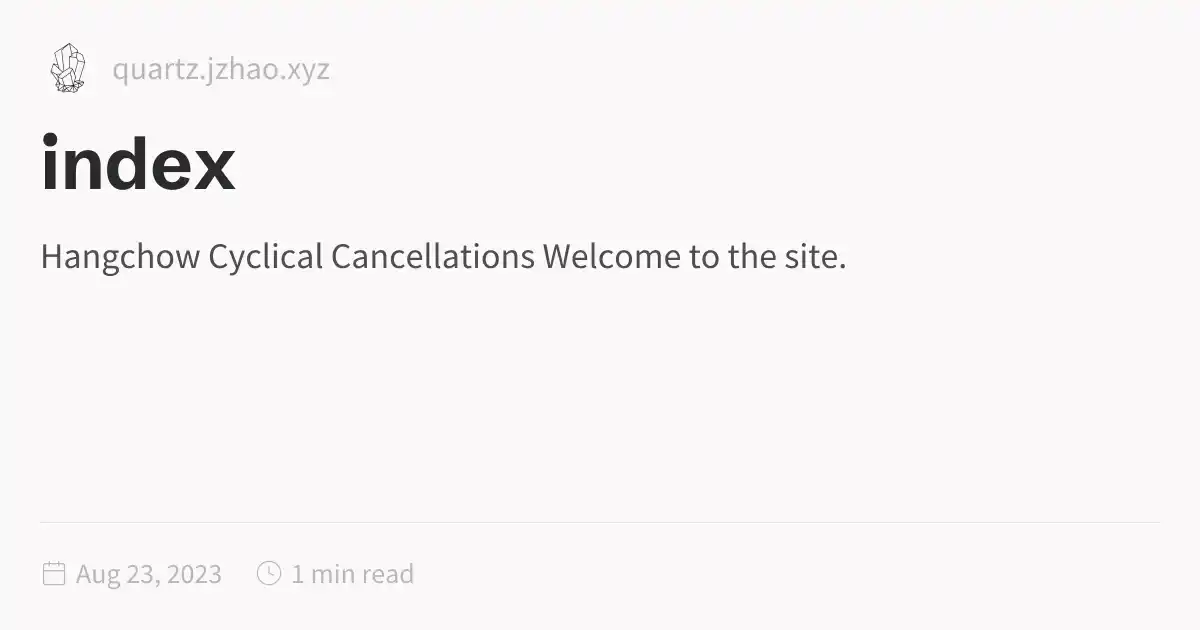
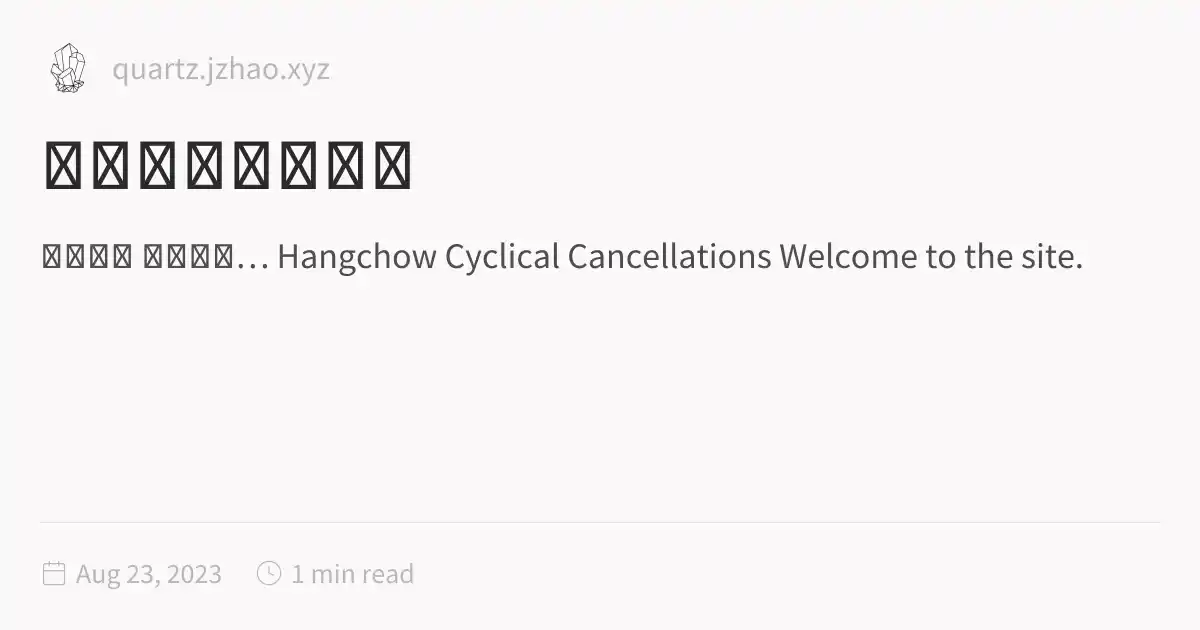
deploy: lihengjun/my-obsidian-vault@e7536885da96585f02a45a3154257fda2681b281

Changed region(s): [[0.0308, 0.3619, 0.8942, 0.4524], [0.0308, 0.2111, 0.3392, 0.3016]]

diff --git a/index.html b/index.html
@@ -1,5 +1,5 @@
 <!DOCTYPE html>
-<html lang="en"><head><title>index</title><meta charset="utf-8"/><link rel="preconnect" href="https://fonts.googleapis.com"/><link rel="preconnect" href="https://fonts.gstatic.com"/><link rel="stylesheet" href="https://fonts.googleapis.com/css2?family=Schibsted Grotesk:wght@400;700&amp;family=Source Sans Pro:ital,wght@0,400;0,600;1,400;1,600&amp;family=IBM Plex Mono:wght@400;600&amp;display=swap"/><link rel="preconnect" href="https://cdnjs.cloudflare.com" crossorigin="anonymous"/><meta name="viewport" content="width=device-width, initial-scale=1.0"/><meta name="og:site_name" content="Quartz 4"/><meta property="og:title" content="index"/><meta property="og:type" content="website"/><meta name="twitter:card" content="summary_large_image"/><meta name="twitter:title" content="index"/><meta name="twitter:description" content="Hangchow Cyclical Cancellations Welcome to the site."/><meta property="og:description" content="Hangchow Cyclical Cancellations Welcome to the site."/><meta property="og:image:alt" content="Hangchow Cyclical Cancellations Welcome to the site."/><meta property="twitter:domain" content="quartz.jzhao.xyz"/><meta property="og:url" content="https://quartz.jzhao.xyz/index"/><meta property="twitter:url" content="https://quartz.jzhao.xyz/index"/><link rel="icon" href="./static/icon.png"/><meta name="description" content="Hangchow Cyclical Cancellations Welcome to the site."/><meta name="generator" content="Quartz"/><link href="./index.css" rel="stylesheet" type="text/css" spa-preserve/><style>.expand-button {
+<html lang="en"><head><title>杭州城幹支戳蓃集</title><meta charset="utf-8"/><link rel="preconnect" href="https://fonts.googleapis.com"/><link rel="preconnect" href="https://fonts.gstatic.com"/><link rel="stylesheet" href="https://fonts.googleapis.com/css2?family=Schibsted Grotesk:wght@400;700&amp;family=Source Sans Pro:ital,wght@0,400;0,600;1,400;1,600&amp;family=IBM Plex Mono:wght@400;600&amp;display=swap"/><link rel="preconnect" href="https://cdnjs.cloudflare.com" crossorigin="anonymous"/><meta name="viewport" content="width=device-width, initial-scale=1.0"/><meta name="og:site_name" content="Quartz 4"/><meta property="og:title" content="杭州城幹支戳蓃集"/><meta property="og:type" content="website"/><meta name="twitter:card" content="summary_large_image"/><meta name="twitter:title" content="杭州城幹支戳蓃集"/><meta name="twitter:description" content="内容标题 你的内容… Hangchow Cyclical Cancellations Welcome to the site."/><meta property="og:description" content="内容标题 你的内容… Hangchow Cyclical Cancellations Welcome to the site."/><meta property="og:image:alt" content="内容标题 你的内容… Hangchow Cyclical Cancellations Welcome to the site."/><meta property="twitter:domain" content="quartz.jzhao.xyz"/><meta property="og:url" content="https://quartz.jzhao.xyz/index"/><meta property="twitter:url" content="https://quartz.jzhao.xyz/index"/><link rel="icon" href="./static/icon.png"/><meta name="description" content="内容标题 你的内容… Hangchow Cyclical Cancellations Welcome to the site."/><meta name="generator" content="Quartz"/><link href="./index.css" rel="stylesheet" type="text/css" spa-preserve/><style>.expand-button {
   position: absolute;
   display: flex;
   float: right;
@@ -116,7 +116,9 @@ pre:hover > .expand-button {
   padding: 0 12px;
   font-size: 14px;
 }
[2 lines of base64/hex data omitted]
+<p>你的内容…</p>
+<h1 id="hangchow-cyclical-cancellations">Hangchow Cyclical Cancellations<a role="anchor" aria-hidden="true" tabindex="-1" data-no-popover="true" href="#hangchow-cyclical-cancellations" class="internal"><svg width="18" height="18" viewBox="0 0 24 24" fill="none" stroke="currentColor" stroke-width="2" stroke-linecap="round" stroke-linejoin="round"><path d="M10 13a5 5 0 0 0 7.54.54l3-3a5 5 0 0 0-7.07-7.07l-1.72 1.71"></path><path d="M14 11a5 5 0 0 0-7.54-.54l-3 3a5 5 0 0 0 7.07 7.07l1.71-1.71"></path></svg></a></h1>
 <p>Welcome to the site.</p>
 <p><a href="./other" class="internal" data-slug="other">other</a></p>
 <p><a href="./news/link" class="internal" data-slug="news/link">link</a></p>
@@ -157,8 +159,7 @@ pre:hover > .expand-button {
 <p><a href="./other" class="internal" data-slug="other">other</a></p>
 <p></p><blockquote class="transclude" data-url="other" data-block data-embed-alias="undefined"><h1>other</h1><p>123</p><a href="./other" class="internal transclude-src">Link to original</a></blockquote><p></p>
 <h1 id="杭州城幹支戳蓃集">杭州城幹支戳蓃集<a role="anchor" aria-hidden="true" tabindex="-1" data-no-popover="true" href="#杭州城幹支戳蓃集" class="internal"><svg width="18" height="18" viewBox="0 0 24 24" fill="none" stroke="currentColor" stroke-width="2" stroke-linecap="round" stroke-linejoin="round"><path d="M10 13a5 5 0 0 0 7.54.54l3-3a5 5 0 0 0-7.07-7.07l-1.72 1.71"></path><path d="M14 11a5 5 0 0 0-7.54-.54l-3 3a5 5 0 0 0 7.07 7.07l1.71-1.71"></path></svg></a></h1>
-<p>Text - again</p>
-<p><img src="app://f73fa24c1c9e7ece6f4667f9c7838fdae5f3/Users/lihengjun/Library/Mobile%20Documents/iCloud~md~obsidian/Documents/Obsidian_Vault/50_Philately/Hangchow%20Cyclical%20Cancellations/news/attachments/biozenith_logo.png?1755977322369" alt="biozenith_logo.png"/></p></article><hr/><div class="page-footer"></div></div><div class="right sidebar"><div class="graph"><h3>Graph View</h3><div class="graph-outer"><div class="graph-container" data-cfg="{&quot;drag&quot;:true,&quot;zoom&quot;:true,&quot;depth&quot;:1,&quot;scale&quot;:1.1,&quot;repelForce&quot;:0.5,&quot;centerForce&quot;:0.3,&quot;linkDistance&quot;:30,&quot;fontSize&quot;:0.6,&quot;opacityScale&quot;:1,&quot;showTags&quot;:true,&quot;removeTags&quot;:[],&quot;focusOnHover&quot;:false,&quot;enableRadial&quot;:false}"></div><button class="global-graph-icon" aria-label="Global Graph"><svg version="1.1" xmlns="http://www.w3.org/2000/svg" xmlns:xlink="http://www.w3.org/1999/xlink" x="0px" y="0px" viewBox="0 0 55 55" fill="currentColor" xml:space="preserve"><path d="M49,0c-3.309,0-6,2.691-6,6c0,1.035,0.263,2.009,0.726,2.86l-9.829,9.829C32.542,17.634,30.846,17,29,17
+<p>Text - again</p></article><hr/><div class="page-footer"></div></div><div class="right sidebar"><div class="graph"><h3>Graph View</h3><div class="graph-outer"><div class="graph-container" data-cfg="{&quot;drag&quot;:true,&quot;zoom&quot;:true,&quot;depth&quot;:1,&quot;scale&quot;:1.1,&quot;repelForce&quot;:0.5,&quot;centerForce&quot;:0.3,&quot;linkDistance&quot;:30,&quot;fontSize&quot;:0.6,&quot;opacityScale&quot;:1,&quot;showTags&quot;:true,&quot;removeTags&quot;:[],&quot;focusOnHover&quot;:false,&quot;enableRadial&quot;:false}"></div><button class="global-graph-icon" aria-label="Global Graph"><svg version="1.1" xmlns="http://www.w3.org/2000/svg" xmlns:xlink="http://www.w3.org/1999/xlink" x="0px" y="0px" viewBox="0 0 55 55" fill="currentColor" xml:space="preserve"><path d="M49,0c-3.309,0-6,2.691-6,6c0,1.035,0.263,2.009,0.726,2.86l-9.829,9.829C32.542,17.634,30.846,17,29,17
                 s-3.542,0.634-4.898,1.688l-7.669-7.669C16.785,10.424,17,9.74,17,9c0-2.206-1.794-4-4-4S9,6.794,9,9s1.794,4,4,4
                 c0.74,0,1.424-0.215,2.019-0.567l7.669,7.669C21.634,21.458,21,23.154,21,25s0.634,3.542,1.688,4.897L10.024,42.562
                 C8.958,41.595,7.549,41,6,41c-3.309,0-6,2.691-6,6s2.691,6,6,6s6-2.691,6-6c0-1.035-0.263-2.009-0.726-2.86l12.829-12.829
@@ -168,6 +169,6 @@ pre:hover > .expand-button {
                 C46.042,11.405,47.451,12,49,12c3.309,0,6-2.691,6-6S52.309,0,49,0z M11,9c0-1.103,0.897-2,2-2s2,0.897,2,2s-0.897,2-2,2
                 S11,10.103,11,9z M6,51c-2.206,0-4-1.794-4-4s1.794-4,4-4s4,1.794,4,4S8.206,51,6,51z M33,49c0,2.206-1.794,4-4,4s-4-1.794-4-4
                 s1.794-4,4-4S33,46.794,33,49z M29,31c-3.309,0-6-2.691-6-6s2.691-6,6-6s6,2.691,6,6S32.309,31,29,31z M47,41c0,1.103-0.897,2-2,2
-                s-2-0.897-2-2s0.897-2,2-2S47,39.897,47,41z M49,10c-2.206,0-4-1.794-4-4s1.794-4,4-4s4,1.794,4,4S51.206,10,49,10z"></path></svg></button></div><div class="global-graph-outer"><div class="global-graph-container" data-cfg="{&quot;drag&quot;:true,&quot;zoom&quot;:true,&quot;depth&quot;:-1,&quot;scale&quot;:0.9,&quot;repelForce&quot;:0.5,&quot;centerForce&quot;:0.2,&quot;linkDistance&quot;:30,&quot;fontSize&quot;:0.6,&quot;opacityScale&quot;:1,&quot;showTags&quot;:true,&quot;removeTags&quot;:[],&quot;focusOnHover&quot;:true,&quot;enableRadial&quot;:true}"></div></div></div><div class="toc desktop-only"><button type="button" class="toc-header" aria-controls="toc-0" aria-expanded="true"><h3>Table of Contents</h3><svg xmlns="http://www.w3.org/2000/svg" width="24" height="24" viewBox="0 0 24 24" fill="none" stroke="currentColor" stroke-width="2" stroke-linecap="round" stroke-linejoin="round" class="fold"><polyline points="6 9 12 15 18 9"></polyline></svg></button><ul id="list-1" class="toc-content overflow"><li class="depth-0"><a href="#hangchow-cyclical-cancellations" data-for="hangchow-cyclical-cancellations">Hangchow Cyclical Cancellations</a></li><li class="depth-0"><a href="#杭州城幹支戳蓃集" data-for="杭州城幹支戳蓃集">杭州城幹支戳蓃集</a></li><li class="overflow-end"></li></ul></div></div><footer class><p>Created with <a href="https://quartz.jzhao.xyz/">Quartz v4.5.1</a> © 2025</p><ul><li><a href="https://github.com/jackyzha0/quartz">GitHub</a></li><li><a href="https://discord.gg/cRFFHYye7t">Discord Community</a></li></ul></footer></div></div></body><script type="application/javascript">function n(){let t=this.parentElement;t.classList.toggle("is-collapsed");let e=t.getElementsByClassName("callout-content")[0];if(!e)return;let l=t.classList.contains("is-collapsed");e.style.gridTemplateRows=l?"0fr":"1fr"}function c(){let t=document.getElementsByClassName("callout is-collapsible");for(let e of t){let l=e.getElementsByClassName("callout-title")[0],s=e.getElementsByClassName("callout-content")[0];if(!l||!s)continue;l.addEventListener("click",n),window.addCleanup(()=>l.removeEventListener("click",n));let o=e.classList.contains("is-collapsed");s.style.gridTemplateRows=o?"0fr":"1fr"}}document.addEventListener("nav",c);
+                s-2-0.897-2-2s0.897-2,2-2S47,39.897,47,41z M49,10c-2.206,0-4-1.794-4-4s1.794-4,4-4s4,1.794,4,4S51.206,10,49,10z"></path></svg></button></div><div class="global-graph-outer"><div class="global-graph-container" data-cfg="{&quot;drag&quot;:true,&quot;zoom&quot;:true,&quot;depth&quot;:-1,&quot;scale&quot;:0.9,&quot;repelForce&quot;:0.5,&quot;centerForce&quot;:0.2,&quot;linkDistance&quot;:30,&quot;fontSize&quot;:0.6,&quot;opacityScale&quot;:1,&quot;showTags&quot;:true,&quot;removeTags&quot;:[],&quot;focusOnHover&quot;:true,&quot;enableRadial&quot;:true}"></div></div></div><div class="toc desktop-only"><button type="button" class="toc-header" aria-controls="toc-0" aria-expanded="true"><h3>Table of Contents</h3><svg xmlns="http://www.w3.org/2000/svg" width="24" height="24" viewBox="0 0 24 24" fill="none" stroke="currentColor" stroke-width="2" stroke-linecap="round" stroke-linejoin="round" class="fold"><polyline points="6 9 12 15 18 9"></polyline></svg></button><ul id="list-1" class="toc-content overflow"><li class="depth-0"><a href="#内容标题" data-for="内容标题">内容标题</a></li><li class="depth-0"><a href="#hangchow-cyclical-cancellations" data-for="hangchow-cyclical-cancellations">Hangchow Cyclical Cancellations</a></li><li class="depth-0"><a href="#杭州城幹支戳蓃集" data-for="杭州城幹支戳蓃集">杭州城幹支戳蓃集</a></li><li class="overflow-end"></li></ul></div></div><footer class><p>Created with <a href="https://quartz.jzhao.xyz/">Quartz v4.5.1</a> © 2025</p><ul><li><a href="https://github.com/jackyzha0/quartz">GitHub</a></li><li><a href="https://discord.gg/cRFFHYye7t">Discord Community</a></li></ul></footer></div></div></body><script type="application/javascript">function n(){let t=this.parentElement;t.classList.toggle("is-collapsed");let e=t.getElementsByClassName("callout-content")[0];if(!e)return;let l=t.classList.contains("is-collapsed");e.style.gridTemplateRows=l?"0fr":"1fr"}function c(){let t=document.getElementsByClassName("callout is-collapsible");for(let e of t){let l=e.getElementsByClassName("callout-title")[0],s=e.getElementsByClassName("callout-content")[0];if(!l||!s)continue;l.addEventListener("click",n),window.addCleanup(()=>l.removeEventListener("click",n));let o=e.classList.contains("is-collapsed");s.style.gridTemplateRows=o?"0fr":"1fr"}}document.addEventListener("nav",c);
 </script><script type="module">function f(i,e){if(!i)return;function r(o){o.target===this&&(o.preventDefault(),o.stopPropagation(),e())}function t(o){o.key.startsWith("Esc")&&(o.preventDefault(),e())}i?.addEventListener("click",r),window.addCleanup(()=>i?.removeEventListener("click",r)),document.addEventListener("keydown",t),window.addCleanup(()=>document.removeEventListener("keydown",t))}function y(i){for(;i.firstChild;)i.removeChild(i.firstChild)}var h=class{constructor(e,r){this.container=e;this.content=r;this.setupEventListeners(),this.setupNavigationControls(),this.resetTransform()}isDragging=!1;startPan={x:0,y:0};currentPan={x:0,y:0};scale=1;MIN_SCALE=.5;MAX_SCALE=3;cleanups=[];setupEventListeners(){let e=this.onMouseDown.bind(this),r=this.onMouseMove.bind(this),t=this.onMouseUp.bind(this),o=this.resetTransform.bind(this);this.container.addEventListener("mousedown",e),document.addEventListener("mousemove",r),document.addEventListener("mouseup",t),window.addEventListener("resize",o),this.cleanups.push(()=>this.container.removeEventListener("mousedown",e),()=>document.removeEventListener("mousemove",r),()=>document.removeEventListener("mouseup",t),()=>window.removeEventListener("resize",o))}cleanup(){for(let e of this.cleanups)e()}setupNavigationControls(){let e=document.createElement("div");e.className="mermaid-controls";let r=this.createButton("+",()=>this.zoom(.1)),t=this.createButton("-",()=>this.zoom(-.1)),o=this.createButton("Reset",()=>this.resetTransform());e.appendChild(t),e.appendChild(o),e.appendChild(r),this.container.appendChild(e)}createButton(e,r){let t=document.createElement("button");return t.textContent=e,t.className="mermaid-control-button",t.addEventListener("click",r),window.addCleanup(()=>t.removeEventListener("click",r)),t}onMouseDown(e){e.button===0&&(this.isDragging=!0,this.startPan={x:e.clientX-this.currentPan.x,y:e.clientY-this.currentPan.y},this.container.style.cursor="grabbing")}onMouseMove(e){this.isDragging&&(e.preventDefault(),this.currentPan={x:e.clientX-this.startPan.x,y:e.clientY-this.startPan.y},this.updateTransform())}onMouseUp(){this.isDragging=!1,this.container.style.cursor="grab"}zoom(e){let r=Math.min(Math.max(this.scale+e,this.MIN_SCALE),this.MAX_SCALE),t=this.content.getBoundingClientRect(),o=t.width/2,n=t.height/2,c=r-this.scale;this.currentPan.x-=o*c,this.currentPan.y-=n*c,this.scale=r,this.updateTransform()}updateTransform(){this.content.style.transform=`translate(${this.currentPan.x}px, ${this.currentPan.y}px) scale(${this.scale})`}resetTransform(){this.scale=1;let e=this.content.querySelector("svg");this.currentPan={x:e.getBoundingClientRect().width/2,y:e.getBoundingClientRect().height/2},this.updateTransform()}},C=["--secondary","--tertiary","--gray","--light","--lightgray","--highlight","--dark","--darkgray","--codeFont"],E;document.addEventListener("nav",async()=>{let e=document.querySelector(".center").querySelectorAll("code.mermaid");if(e.length===0)return;E||=await import("https://cdnjs.cloudflare.com/ajax/libs/mermaid/11.4.0/mermaid.esm.min.mjs");let r=E.default,t=new WeakMap;for(let n of e)t.set(n,n.innerText);async function o(){for(let s of e){s.removeAttribute("data-processed");let a=t.get(s);a&&(s.innerHTML=a)}let n=C.reduce((s,a)=>(s[a]=window.getComputedStyle(document.documentElement).getPropertyValue(a),s),{}),c=document.documentElement.getAttribute("saved-theme")==="dark";r.initialize({startOnLoad:!1,securityLevel:"loose",theme:c?"dark":"base",themeVariables:{fontFamily:n["--codeFont"],primaryColor:n["--light"],primaryTextColor:n["--darkgray"],primaryBorderColor:n["--tertiary"],lineColor:n["--darkgray"],secondaryColor:n["--secondary"],tertiaryColor:n["--tertiary"],clusterBkg:n["--light"],edgeLabelBackground:n["--highlight"]}}),await r.run({nodes:e})}await o(),document.addEventListener("themechange",o),window.addCleanup(()=>document.removeEventListener("themechange",o));for(let n=0;n<e.length;n++){let v=function(){let g=l.querySelector("#mermaid-space"),m=l.querySelector(".mermaid-content");if(!m)return;y(m);let w=c.querySelector("svg").cloneNode(!0);m.appendChild(w),l.classList.add("active"),g.style.cursor="grab",u=new h(g,m)},M=function(){l.classList.remove("active"),u?.cleanup(),u=null},c=e[n],s=c.parentElement,a=s.querySelector(".clipboard-button"),d=s.querySelector(".expand-button"),p=window.getComputedStyle(a),L=a.offsetWidth+parseFloat(p.marginLeft||"0")+parseFloat(p.marginRight||"0");d.style.right=`calc(${L}px + 0.3rem)`,s.prepend(d);let l=s.querySelector("#mermaid-container");if(!l)return;let u=null;d.addEventListener("click",v),f(l,M),window.addCleanup(()=>{u?.cleanup(),d.removeEventListener("click",v)})}});
 </script><script src="https://cdn.jsdelivr.net/npm/katex@0.16.11/dist/contrib/copy-tex.min.js" type="application/javascript"></script><script src="./postscript.js" type="module"></script></html>

diff --git a/other.html b/other.html
@@ -116,7 +116,7 @@ pre:hover > .expand-button {
   padding: 0 12px;
   font-size: 14px;
 }
[2 lines of base64/hex data omitted]
                 s-3.542,0.634-4.898,1.688l-7.669-7.669C16.785,10.424,17,9.74,17,9c0-2.206-1.794-4-4-4S9,6.794,9,9s1.794,4,4,4
                 c0.74,0,1.424-0.215,2.019-0.567l7.669,7.669C21.634,21.458,21,23.154,21,25s0.634,3.542,1.688,4.897L10.024,42.562
                 C8.958,41.595,7.549,41,6,41c-3.309,0-6,2.691-6,6s2.691,6,6,6s6-2.691,6-6c0-1.035-0.263-2.009-0.726-2.86l12.829-12.829
@@ -126,6 +126,6 @@ pre:hover > .expand-button {
                 C46.042,11.405,47.451,12,49,12c3.309,0,6-2.691,6-6S52.309,0,49,0z M11,9c0-1.103,0.897-2,2-2s2,0.897,2,2s-0.897,2-2,2
                 S11,10.103,11,9z M6,51c-2.206,0-4-1.794-4-4s1.794-4,4-4s4,1.794,4,4S8.206,51,6,51z M33,49c0,2.206-1.794,4-4,4s-4-1.794-4-4
                 s1.794-4,4-4S33,46.794,33,49z M29,31c-3.309,0-6-2.691-6-6s2.691-6,6-6s6,2.691,6,6S32.309,31,29,31z M47,41c0,1.103-0.897,2-2,2
-                s-2-0.897-2-2s0.897-2,2-2S47,39.897,47,41z M49,10c-2.206,0-4-1.794-4-4s1.794-4,4-4s4,1.794,4,4S51.206,10,49,10z"></path></svg></button></div><div class="global-graph-outer"><div class="global-graph-container" data-cfg="{&quot;drag&quot;:true,&quot;zoom&quot;:true,&quot;depth&quot;:-1,&quot;scale&quot;:0.9,&quot;repelForce&quot;:0.5,&quot;centerForce&quot;:0.2,&quot;linkDistance&quot;:30,&quot;fontSize&quot;:0.6,&quot;opacityScale&quot;:1,&quot;showTags&quot;:true,&quot;removeTags&quot;:[],&quot;focusOnHover&quot;:true,&quot;enableRadial&quot;:true}"></div></div></div><div class="backlinks"><h3>Backlinks</h3><ul id="list-2" class="overflow"><li><a href="./" class="internal">index</a></li><li class="overflow-end"></li></ul></div></div><footer class><p>Created with <a href="https://quartz.jzhao.xyz/">Quartz v4.5.1</a> © 2025</p><ul><li><a href="https://github.com/jackyzha0/quartz">GitHub</a></li><li><a href="https://discord.gg/cRFFHYye7t">Discord Community</a></li></ul></footer></div></div></body><script type="application/javascript">function n(){let t=this.parentElement;t.classList.toggle("is-collapsed");let e=t.getElementsByClassName("callout-content")[0];if(!e)return;let l=t.classList.contains("is-collapsed");e.style.gridTemplateRows=l?"0fr":"1fr"}function c(){let t=document.getElementsByClassName("callout is-collapsible");for(let e of t){let l=e.getElementsByClassName("callout-title")[0],s=e.getElementsByClassName("callout-content")[0];if(!l||!s)continue;l.addEventListener("click",n),window.addCleanup(()=>l.removeEventListener("click",n));let o=e.classList.contains("is-collapsed");s.style.gridTemplateRows=o?"0fr":"1fr"}}document.addEventListener("nav",c);
+                s-2-0.897-2-2s0.897-2,2-2S47,39.897,47,41z M49,10c-2.206,0-4-1.794-4-4s1.794-4,4-4s4,1.794,4,4S51.206,10,49,10z"></path></svg></button></div><div class="global-graph-outer"><div class="global-graph-container" data-cfg="{&quot;drag&quot;:true,&quot;zoom&quot;:true,&quot;depth&quot;:-1,&quot;scale&quot;:0.9,&quot;repelForce&quot;:0.5,&quot;centerForce&quot;:0.2,&quot;linkDistance&quot;:30,&quot;fontSize&quot;:0.6,&quot;opacityScale&quot;:1,&quot;showTags&quot;:true,&quot;removeTags&quot;:[],&quot;focusOnHover&quot;:true,&quot;enableRadial&quot;:true}"></div></div></div><div class="backlinks"><h3>Backlinks</h3><ul id="list-2" class="overflow"><li><a href="./" class="internal">杭州城幹支戳蓃集</a></li><li class="overflow-end"></li></ul></div></div><footer class><p>Created with <a href="https://quartz.jzhao.xyz/">Quartz v4.5.1</a> © 2025</p><ul><li><a href="https://github.com/jackyzha0/quartz">GitHub</a></li><li><a href="https://discord.gg/cRFFHYye7t">Discord Community</a></li></ul></footer></div></div></body><script type="application/javascript">function n(){let t=this.parentElement;t.classList.toggle("is-collapsed");let e=t.getElementsByClassName("callout-content")[0];if(!e)return;let l=t.classList.contains("is-collapsed");e.style.gridTemplateRows=l?"0fr":"1fr"}function c(){let t=document.getElementsByClassName("callout is-collapsible");for(let e of t){let l=e.getElementsByClassName("callout-title")[0],s=e.getElementsByClassName("callout-content")[0];if(!l||!s)continue;l.addEventListener("click",n),window.addCleanup(()=>l.removeEventListener("click",n));let o=e.classList.contains("is-collapsed");s.style.gridTemplateRows=o?"0fr":"1fr"}}document.addEventListener("nav",c);
 </script><script type="module">function f(i,e){if(!i)return;function r(o){o.target===this&&(o.preventDefault(),o.stopPropagation(),e())}function t(o){o.key.startsWith("Esc")&&(o.preventDefault(),e())}i?.addEventListener("click",r),window.addCleanup(()=>i?.removeEventListener("click",r)),document.addEventListener("keydown",t),window.addCleanup(()=>document.removeEventListener("keydown",t))}function y(i){for(;i.firstChild;)i.removeChild(i.firstChild)}var h=class{constructor(e,r){this.container=e;this.content=r;this.setupEventListeners(),this.setupNavigationControls(),this.resetTransform()}isDragging=!1;startPan={x:0,y:0};currentPan={x:0,y:0};scale=1;MIN_SCALE=.5;MAX_SCALE=3;cleanups=[];setupEventListeners(){let e=this.onMouseDown.bind(this),r=this.onMouseMove.bind(this),t=this.onMouseUp.bind(this),o=this.resetTransform.bind(this);this.container.addEventListener("mousedown",e),document.addEventListener("mousemove",r),document.addEventListener("mouseup",t),window.addEventListener("resize",o),this.cleanups.push(()=>this.container.removeEventListener("mousedown",e),()=>document.removeEventListener("mousemove",r),()=>document.removeEventListener("mouseup",t),()=>window.removeEventListener("resize",o))}cleanup(){for(let e of this.cleanups)e()}setupNavigationControls(){let e=document.createElement("div");e.className="mermaid-controls";let r=this.createButton("+",()=>this.zoom(.1)),t=this.createButton("-",()=>this.zoom(-.1)),o=this.createButton("Reset",()=>this.resetTransform());e.appendChild(t),e.appendChild(o),e.appendChild(r),this.container.appendChild(e)}createButton(e,r){let t=document.createElement("button");return t.textContent=e,t.className="mermaid-control-button",t.addEventListener("click",r),window.addCleanup(()=>t.removeEventListener("click",r)),t}onMouseDown(e){e.button===0&&(this.isDragging=!0,this.startPan={x:e.clientX-this.currentPan.x,y:e.clientY-this.currentPan.y},this.container.style.cursor="grabbing")}onMouseMove(e){this.isDragging&&(e.preventDefault(),this.currentPan={x:e.clientX-this.startPan.x,y:e.clientY-this.startPan.y},this.updateTransform())}onMouseUp(){this.isDragging=!1,this.container.style.cursor="grab"}zoom(e){let r=Math.min(Math.max(this.scale+e,this.MIN_SCALE),this.MAX_SCALE),t=this.content.getBoundingClientRect(),o=t.width/2,n=t.height/2,c=r-this.scale;this.currentPan.x-=o*c,this.currentPan.y-=n*c,this.scale=r,this.updateTransform()}updateTransform(){this.content.style.transform=`translate(${this.currentPan.x}px, ${this.currentPan.y}px) scale(${this.scale})`}resetTransform(){this.scale=1;let e=this.content.querySelector("svg");this.currentPan={x:e.getBoundingClientRect().width/2,y:e.getBoundingClientRect().height/2},this.updateTransform()}},C=["--secondary","--tertiary","--gray","--light","--lightgray","--highlight","--dark","--darkgray","--codeFont"],E;document.addEventListener("nav",async()=>{let e=document.querySelector(".center").querySelectorAll("code.mermaid");if(e.length===0)return;E||=await import("https://cdnjs.cloudflare.com/ajax/libs/mermaid/11.4.0/mermaid.esm.min.mjs");let r=E.default,t=new WeakMap;for(let n of e)t.set(n,n.innerText);async function o(){for(let s of e){s.removeAttribute("data-processed");let a=t.get(s);a&&(s.innerHTML=a)}let n=C.reduce((s,a)=>(s[a]=window.getComputedStyle(document.documentElement).getPropertyValue(a),s),{}),c=document.documentElement.getAttribute("saved-theme")==="dark";r.initialize({startOnLoad:!1,securityLevel:"loose",theme:c?"dark":"base",themeVariables:{fontFamily:n["--codeFont"],primaryColor:n["--light"],primaryTextColor:n["--darkgray"],primaryBorderColor:n["--tertiary"],lineColor:n["--darkgray"],secondaryColor:n["--secondary"],tertiaryColor:n["--tertiary"],clusterBkg:n["--light"],edgeLabelBackground:n["--highlight"]}}),await r.run({nodes:e})}await o(),document.addEventListener("themechange",o),window.addCleanup(()=>document.removeEventListener("themechange",o));for(let n=0;n<e.length;n++){let v=function(){let g=l.querySelector("#mermaid-space"),m=l.querySelector(".mermaid-content");if(!m)return;y(m);let w=c.querySelector("svg").cloneNode(!0);m.appendChild(w),l.classList.add("active"),g.style.cursor="grab",u=new h(g,m)},M=function(){l.classList.remove("active"),u?.cleanup(),u=null},c=e[n],s=c.parentElement,a=s.querySelector(".clipboard-button"),d=s.querySelector(".expand-button"),p=window.getComputedStyle(a),L=a.offsetWidth+parseFloat(p.marginLeft||"0")+parseFloat(p.marginRight||"0");d.style.right=`calc(${L}px + 0.3rem)`,s.prepend(d);let l=s.querySelector("#mermaid-container");if(!l)return;let u=null;d.addEventListener("click",v),f(l,M),window.addCleanup(()=>{u?.cleanup(),d.removeEventListener("click",v)})}});
 </script><script src="https://cdn.jsdelivr.net/npm/katex@0.16.11/dist/contrib/copy-tex.min.js" type="application/javascript"></script><script src="./postscript.js" type="module"></script></html>

diff --git a/news/index.html b/news/index.html
@@ -116,6 +116,6 @@ pre:hover > .expand-button {
   padding: 0 12px;
   font-size: 14px;
 }
[2 lines of base64/hex data omitted]
 </script><script type="module">function f(i,e){if(!i)return;function r(o){o.target===this&&(o.preventDefault(),o.stopPropagation(),e())}function t(o){o.key.startsWith("Esc")&&(o.preventDefault(),e())}i?.addEventListener("click",r),window.addCleanup(()=>i?.removeEventListener("click",r)),document.addEventListener("keydown",t),window.addCleanup(()=>document.removeEventListener("keydown",t))}function y(i){for(;i.firstChild;)i.removeChild(i.firstChild)}var h=class{constructor(e,r){this.container=e;this.content=r;this.setupEventListeners(),this.setupNavigationControls(),this.resetTransform()}isDragging=!1;startPan={x:0,y:0};currentPan={x:0,y:0};scale=1;MIN_SCALE=.5;MAX_SCALE=3;cleanups=[];setupEventListeners(){let e=this.onMouseDown.bind(this),r=this.onMouseMove.bind(this),t=this.onMouseUp.bind(this),o=this.resetTransform.bind(this);this.container.addEventListener("mousedown",e),document.addEventListener("mousemove",r),document.addEventListener("mouseup",t),window.addEventListener("resize",o),this.cleanups.push(()=>this.container.removeEventListener("mousedown",e),()=>document.removeEventListener("mousemove",r),()=>document.removeEventListener("mouseup",t),()=>window.removeEventListener("resize",o))}cleanup(){for(let e of this.cleanups)e()}setupNavigationControls(){let e=document.createElement("div");e.className="mermaid-controls";let r=this.createButton("+",()=>this.zoom(.1)),t=this.createButton("-",()=>this.zoom(-.1)),o=this.createButton("Reset",()=>this.resetTransform());e.appendChild(t),e.appendChild(o),e.appendChild(r),this.container.appendChild(e)}createButton(e,r){let t=document.createElement("button");return t.textContent=e,t.className="mermaid-control-button",t.addEventListener("click",r),window.addCleanup(()=>t.removeEventListener("click",r)),t}onMouseDown(e){e.button===0&&(this.isDragging=!0,this.startPan={x:e.clientX-this.currentPan.x,y:e.clientY-this.currentPan.y},this.container.style.cursor="grabbing")}onMouseMove(e){this.isDragging&&(e.preventDefault(),this.currentPan={x:e.clientX-this.startPan.x,y:e.clientY-this.startPan.y},this.updateTransform())}onMouseUp(){this.isDragging=!1,this.container.style.cursor="grab"}zoom(e){let r=Math.min(Math.max(this.scale+e,this.MIN_SCALE),this.MAX_SCALE),t=this.content.getBoundingClientRect(),o=t.width/2,n=t.height/2,c=r-this.scale;this.currentPan.x-=o*c,this.currentPan.y-=n*c,this.scale=r,this.updateTransform()}updateTransform(){this.content.style.transform=`translate(${this.currentPan.x}px, ${this.currentPan.y}px) scale(${this.scale})`}resetTransform(){this.scale=1;let e=this.content.querySelector("svg");this.currentPan={x:e.getBoundingClientRect().width/2,y:e.getBoundingClientRect().height/2},this.updateTransform()}},C=["--secondary","--tertiary","--gray","--light","--lightgray","--highlight","--dark","--darkgray","--codeFont"],E;document.addEventListener("nav",async()=>{let e=document.querySelector(".center").querySelectorAll("code.mermaid");if(e.length===0)return;E||=await import("https://cdnjs.cloudflare.com/ajax/libs/mermaid/11.4.0/mermaid.esm.min.mjs");let r=E.default,t=new WeakMap;for(let n of e)t.set(n,n.innerText);async function o(){for(let s of e){s.removeAttribute("data-processed");let a=t.get(s);a&&(s.innerHTML=a)}let n=C.reduce((s,a)=>(s[a]=window.getComputedStyle(document.documentElement).getPropertyValue(a),s),{}),c=document.documentElement.getAttribute("saved-theme")==="dark";r.initialize({startOnLoad:!1,securityLevel:"loose",theme:c?"dark":"base",themeVariables:{fontFamily:n["--codeFont"],primaryColor:n["--light"],primaryTextColor:n["--darkgray"],primaryBorderColor:n["--tertiary"],lineColor:n["--darkgray"],secondaryColor:n["--secondary"],tertiaryColor:n["--tertiary"],clusterBkg:n["--light"],edgeLabelBackground:n["--highlight"]}}),await r.run({nodes:e})}await o(),document.addEventListener("themechange",o),window.addCleanup(()=>document.removeEventListener("themechange",o));for(let n=0;n<e.length;n++){let v=function(){let g=l.querySelector("#mermaid-space"),m=l.querySelector(".mermaid-content");if(!m)return;y(m);let w=c.querySelector("svg").cloneNode(!0);m.appendChild(w),l.classList.add("active"),g.style.cursor="grab",u=new h(g,m)},M=function(){l.classList.remove("active"),u?.cleanup(),u=null},c=e[n],s=c.parentElement,a=s.querySelector(".clipboard-button"),d=s.querySelector(".expand-button"),p=window.getComputedStyle(a),L=a.offsetWidth+parseFloat(p.marginLeft||"0")+parseFloat(p.marginRight||"0");d.style.right=`calc(${L}px + 0.3rem)`,s.prepend(d);let l=s.querySelector("#mermaid-container");if(!l)return;let u=null;d.addEventListener("click",v),f(l,M),window.addCleanup(()=>{u?.cleanup(),d.removeEventListener("click",v)})}});
 </script><script src="https://cdn.jsdelivr.net/npm/katex@0.16.11/dist/contrib/copy-tex.min.js" type="application/javascript"></script><script src="../postscript.js" type="module"></script></html>

diff --git a/news/link.html b/news/link.html
@@ -126,6 +126,6 @@ pre:hover > .expand-button {
                 C46.042,11.405,47.451,12,49,12c3.309,0,6-2.691,6-6S52.309,0,49,0z M11,9c0-1.103,0.897-2,2-2s2,0.897,2,2s-0.897,2-2,2
                 S11,10.103,11,9z M6,51c-2.206,0-4-1.794-4-4s1.794-4,4-4s4,1.794,4,4S8.206,51,6,51z M33,49c0,2.206-1.794,4-4,4s-4-1.794-4-4
                 s1.794-4,4-4S33,46.794,33,49z M29,31c-3.309,0-6-2.691-6-6s2.691-6,6-6s6,2.691,6,6S32.309,31,29,31z M47,41c0,1.103-0.897,2-2,2
-                s-2-0.897-2-2s0.897-2,2-2S47,39.897,47,41z M49,10c-2.206,0-4-1.794-4-4s1.794-4,4-4s4,1.794,4,4S51.206,10,49,10z"></path></svg></button></div><div class="global-graph-outer"><div class="global-graph-container" data-cfg="{&quot;drag&quot;:true,&quot;zoom&quot;:true,&quot;depth&quot;:-1,&quot;scale&quot;:0.9,&quot;repelForce&quot;:0.5,&quot;centerForce&quot;:0.2,&quot;linkDistance&quot;:30,&quot;fontSize&quot;:0.6,&quot;opacityScale&quot;:1,&quot;showTags&quot;:true,&quot;removeTags&quot;:[],&quot;focusOnHover&quot;:true,&quot;enableRadial&quot;:true}"></div></div></div><div class="backlinks"><h3>Backlinks</h3><ul id="list-2" class="overflow"><li><a href="../" class="internal">index</a></li><li class="overflow-end"></li></ul></div></div><footer class><p>Created with <a href="https://quartz.jzhao.xyz/">Quartz v4.5.1</a> © 2025</p><ul><li><a href="https://github.com/jackyzha0/quartz">GitHub</a></li><li><a href="https://discord.gg/cRFFHYye7t">Discord Community</a></li></ul></footer></div></div></body><script type="application/javascript">function n(){let t=this.parentElement;t.classList.toggle("is-collapsed");let e=t.getElementsByClassName("callout-content")[0];if(!e)return;let l=t.classList.contains("is-collapsed");e.style.gridTemplateRows=l?"0fr":"1fr"}function c(){let t=document.getElementsByClassName("callout is-collapsible");for(let e of t){let l=e.getElementsByClassName("callout-title")[0],s=e.getElementsByClassName("callout-content")[0];if(!l||!s)continue;l.addEventListener("click",n),window.addCleanup(()=>l.removeEventListener("click",n));let o=e.classList.contains("is-collapsed");s.style.gridTemplateRows=o?"0fr":"1fr"}}document.addEventListener("nav",c);
+                s-2-0.897-2-2s0.897-2,2-2S47,39.897,47,41z M49,10c-2.206,0-4-1.794-4-4s1.794-4,4-4s4,1.794,4,4S51.206,10,49,10z"></path></svg></button></div><div class="global-graph-outer"><div class="global-graph-container" data-cfg="{&quot;drag&quot;:true,&quot;zoom&quot;:true,&quot;depth&quot;:-1,&quot;scale&quot;:0.9,&quot;repelForce&quot;:0.5,&quot;centerForce&quot;:0.2,&quot;linkDistance&quot;:30,&quot;fontSize&quot;:0.6,&quot;opacityScale&quot;:1,&quot;showTags&quot;:true,&quot;removeTags&quot;:[],&quot;focusOnHover&quot;:true,&quot;enableRadial&quot;:true}"></div></div></div><div class="backlinks"><h3>Backlinks</h3><ul id="list-2" class="overflow"><li><a href="../" class="internal">杭州城幹支戳蓃集</a></li><li class="overflow-end"></li></ul></div></div><footer class><p>Created with <a href="https://quartz.jzhao.xyz/">Quartz v4.5.1</a> © 2025</p><ul><li><a href="https://github.com/jackyzha0/quartz">GitHub</a></li><li><a href="https://discord.gg/cRFFHYye7t">Discord Community</a></li></ul></footer></div></div></body><script type="application/javascript">function n(){let t=this.parentElement;t.classList.toggle("is-collapsed");let e=t.getElementsByClassName("callout-content")[0];if(!e)return;let l=t.classList.contains("is-collapsed");e.style.gridTemplateRows=l?"0fr":"1fr"}function c(){let t=document.getElementsByClassName("callout is-collapsible");for(let e of t){let l=e.getElementsByClassName("callout-title")[0],s=e.getElementsByClassName("callout-content")[0];if(!l||!s)continue;l.addEventListener("click",n),window.addCleanup(()=>l.removeEventListener("click",n));let o=e.classList.contains("is-collapsed");s.style.gridTemplateRows=o?"0fr":"1fr"}}document.addEventListener("nav",c);
 </script><script type="module">function f(i,e){if(!i)return;function r(o){o.target===this&&(o.preventDefault(),o.stopPropagation(),e())}function t(o){o.key.startsWith("Esc")&&(o.preventDefault(),e())}i?.addEventListener("click",r),window.addCleanup(()=>i?.removeEventListener("click",r)),document.addEventListener("keydown",t),window.addCleanup(()=>document.removeEventListener("keydown",t))}function y(i){for(;i.firstChild;)i.removeChild(i.firstChild)}var h=class{constructor(e,r){this.container=e;this.content=r;this.setupEventListeners(),this.setupNavigationControls(),this.resetTransform()}isDragging=!1;startPan={x:0,y:0};currentPan={x:0,y:0};scale=1;MIN_SCALE=.5;MAX_SCALE=3;cleanups=[];setupEventListeners(){let e=this.onMouseDown.bind(this),r=this.onMouseMove.bind(this),t=this.onMouseUp.bind(this),o=this.resetTransform.bind(this);this.container.addEventListener("mousedown",e),document.addEventListener("mousemove",r),document.addEventListener("mouseup",t),window.addEventListener("resize",o),this.cleanups.push(()=>this.container.removeEventListener("mousedown",e),()=>document.removeEventListener("mousemove",r),()=>document.removeEventListener("mouseup",t),()=>window.removeEventListener("resize",o))}cleanup(){for(let e of this.cleanups)e()}setupNavigationControls(){let e=document.createElement("div");e.className="mermaid-controls";let r=this.createButton("+",()=>this.zoom(.1)),t=this.createButton("-",()=>this.zoom(-.1)),o=this.createButton("Reset",()=>this.resetTransform());e.appendChild(t),e.appendChild(o),e.appendChild(r),this.container.appendChild(e)}createButton(e,r){let t=document.createElement("button");return t.textContent=e,t.className="mermaid-control-button",t.addEventListener("click",r),window.addCleanup(()=>t.removeEventListener("click",r)),t}onMouseDown(e){e.button===0&&(this.isDragging=!0,this.startPan={x:e.clientX-this.currentPan.x,y:e.clientY-this.currentPan.y},this.container.style.cursor="grabbing")}onMouseMove(e){this.isDragging&&(e.preventDefault(),this.currentPan={x:e.clientX-this.startPan.x,y:e.clientY-this.startPan.y},this.updateTransform())}onMouseUp(){this.isDragging=!1,this.container.style.cursor="grab"}zoom(e){let r=Math.min(Math.max(this.scale+e,this.MIN_SCALE),this.MAX_SCALE),t=this.content.getBoundingClientRect(),o=t.width/2,n=t.height/2,c=r-this.scale;this.currentPan.x-=o*c,this.currentPan.y-=n*c,this.scale=r,this.updateTransform()}updateTransform(){this.content.style.transform=`translate(${this.currentPan.x}px, ${this.currentPan.y}px) scale(${this.scale})`}resetTransform(){this.scale=1;let e=this.content.querySelector("svg");this.currentPan={x:e.getBoundingClientRect().width/2,y:e.getBoundingClientRect().height/2},this.updateTransform()}},C=["--secondary","--tertiary","--gray","--light","--lightgray","--highlight","--dark","--darkgray","--codeFont"],E;document.addEventListener("nav",async()=>{let e=document.querySelector(".center").querySelectorAll("code.mermaid");if(e.length===0)return;E||=await import("https://cdnjs.cloudflare.com/ajax/libs/mermaid/11.4.0/mermaid.esm.min.mjs");let r=E.default,t=new WeakMap;for(let n of e)t.set(n,n.innerText);async function o(){for(let s of e){s.removeAttribute("data-processed");let a=t.get(s);a&&(s.innerHTML=a)}let n=C.reduce((s,a)=>(s[a]=window.getComputedStyle(document.documentElement).getPropertyValue(a),s),{}),c=document.documentElement.getAttribute("saved-theme")==="dark";r.initialize({startOnLoad:!1,securityLevel:"loose",theme:c?"dark":"base",themeVariables:{fontFamily:n["--codeFont"],primaryColor:n["--light"],primaryTextColor:n["--darkgray"],primaryBorderColor:n["--tertiary"],lineColor:n["--darkgray"],secondaryColor:n["--secondary"],tertiaryColor:n["--tertiary"],clusterBkg:n["--light"],edgeLabelBackground:n["--highlight"]}}),await r.run({nodes:e})}await o(),document.addEventListener("themechange",o),window.addCleanup(()=>document.removeEventListener("themechange",o));for(let n=0;n<e.length;n++){let v=function(){let g=l.querySelector("#mermaid-space"),m=l.querySelector(".mermaid-content");if(!m)return;y(m);let w=c.querySelector("svg").cloneNode(!0);m.appendChild(w),l.classList.add("active"),g.style.cursor="grab",u=new h(g,m)},M=function(){l.classList.remove("active"),u?.cleanup(),u=null},c=e[n],s=c.parentElement,a=s.querySelector(".clipboard-button"),d=s.querySelector(".expand-button"),p=window.getComputedStyle(a),L=a.offsetWidth+parseFloat(p.marginLeft||"0")+parseFloat(p.marginRight||"0");d.style.right=`calc(${L}px + 0.3rem)`,s.prepend(d);let l=s.querySelector("#mermaid-container");if(!l)return;let u=null;d.addEventListener("click",v),f(l,M),window.addCleanup(()=>{u?.cleanup(),d.removeEventListener("click",v)})}});
 </script><script src="https://cdn.jsdelivr.net/npm/katex@0.16.11/dist/contrib/copy-tex.min.js" type="application/javascript"></script><script src="../postscript.js" type="module"></script></html>

diff --git a/quartz.layout.ts b/quartz.layout.ts
@@ -1,0 +1,1 @@
+export const pageTitle = "杭州城幹支戳蓃集"
